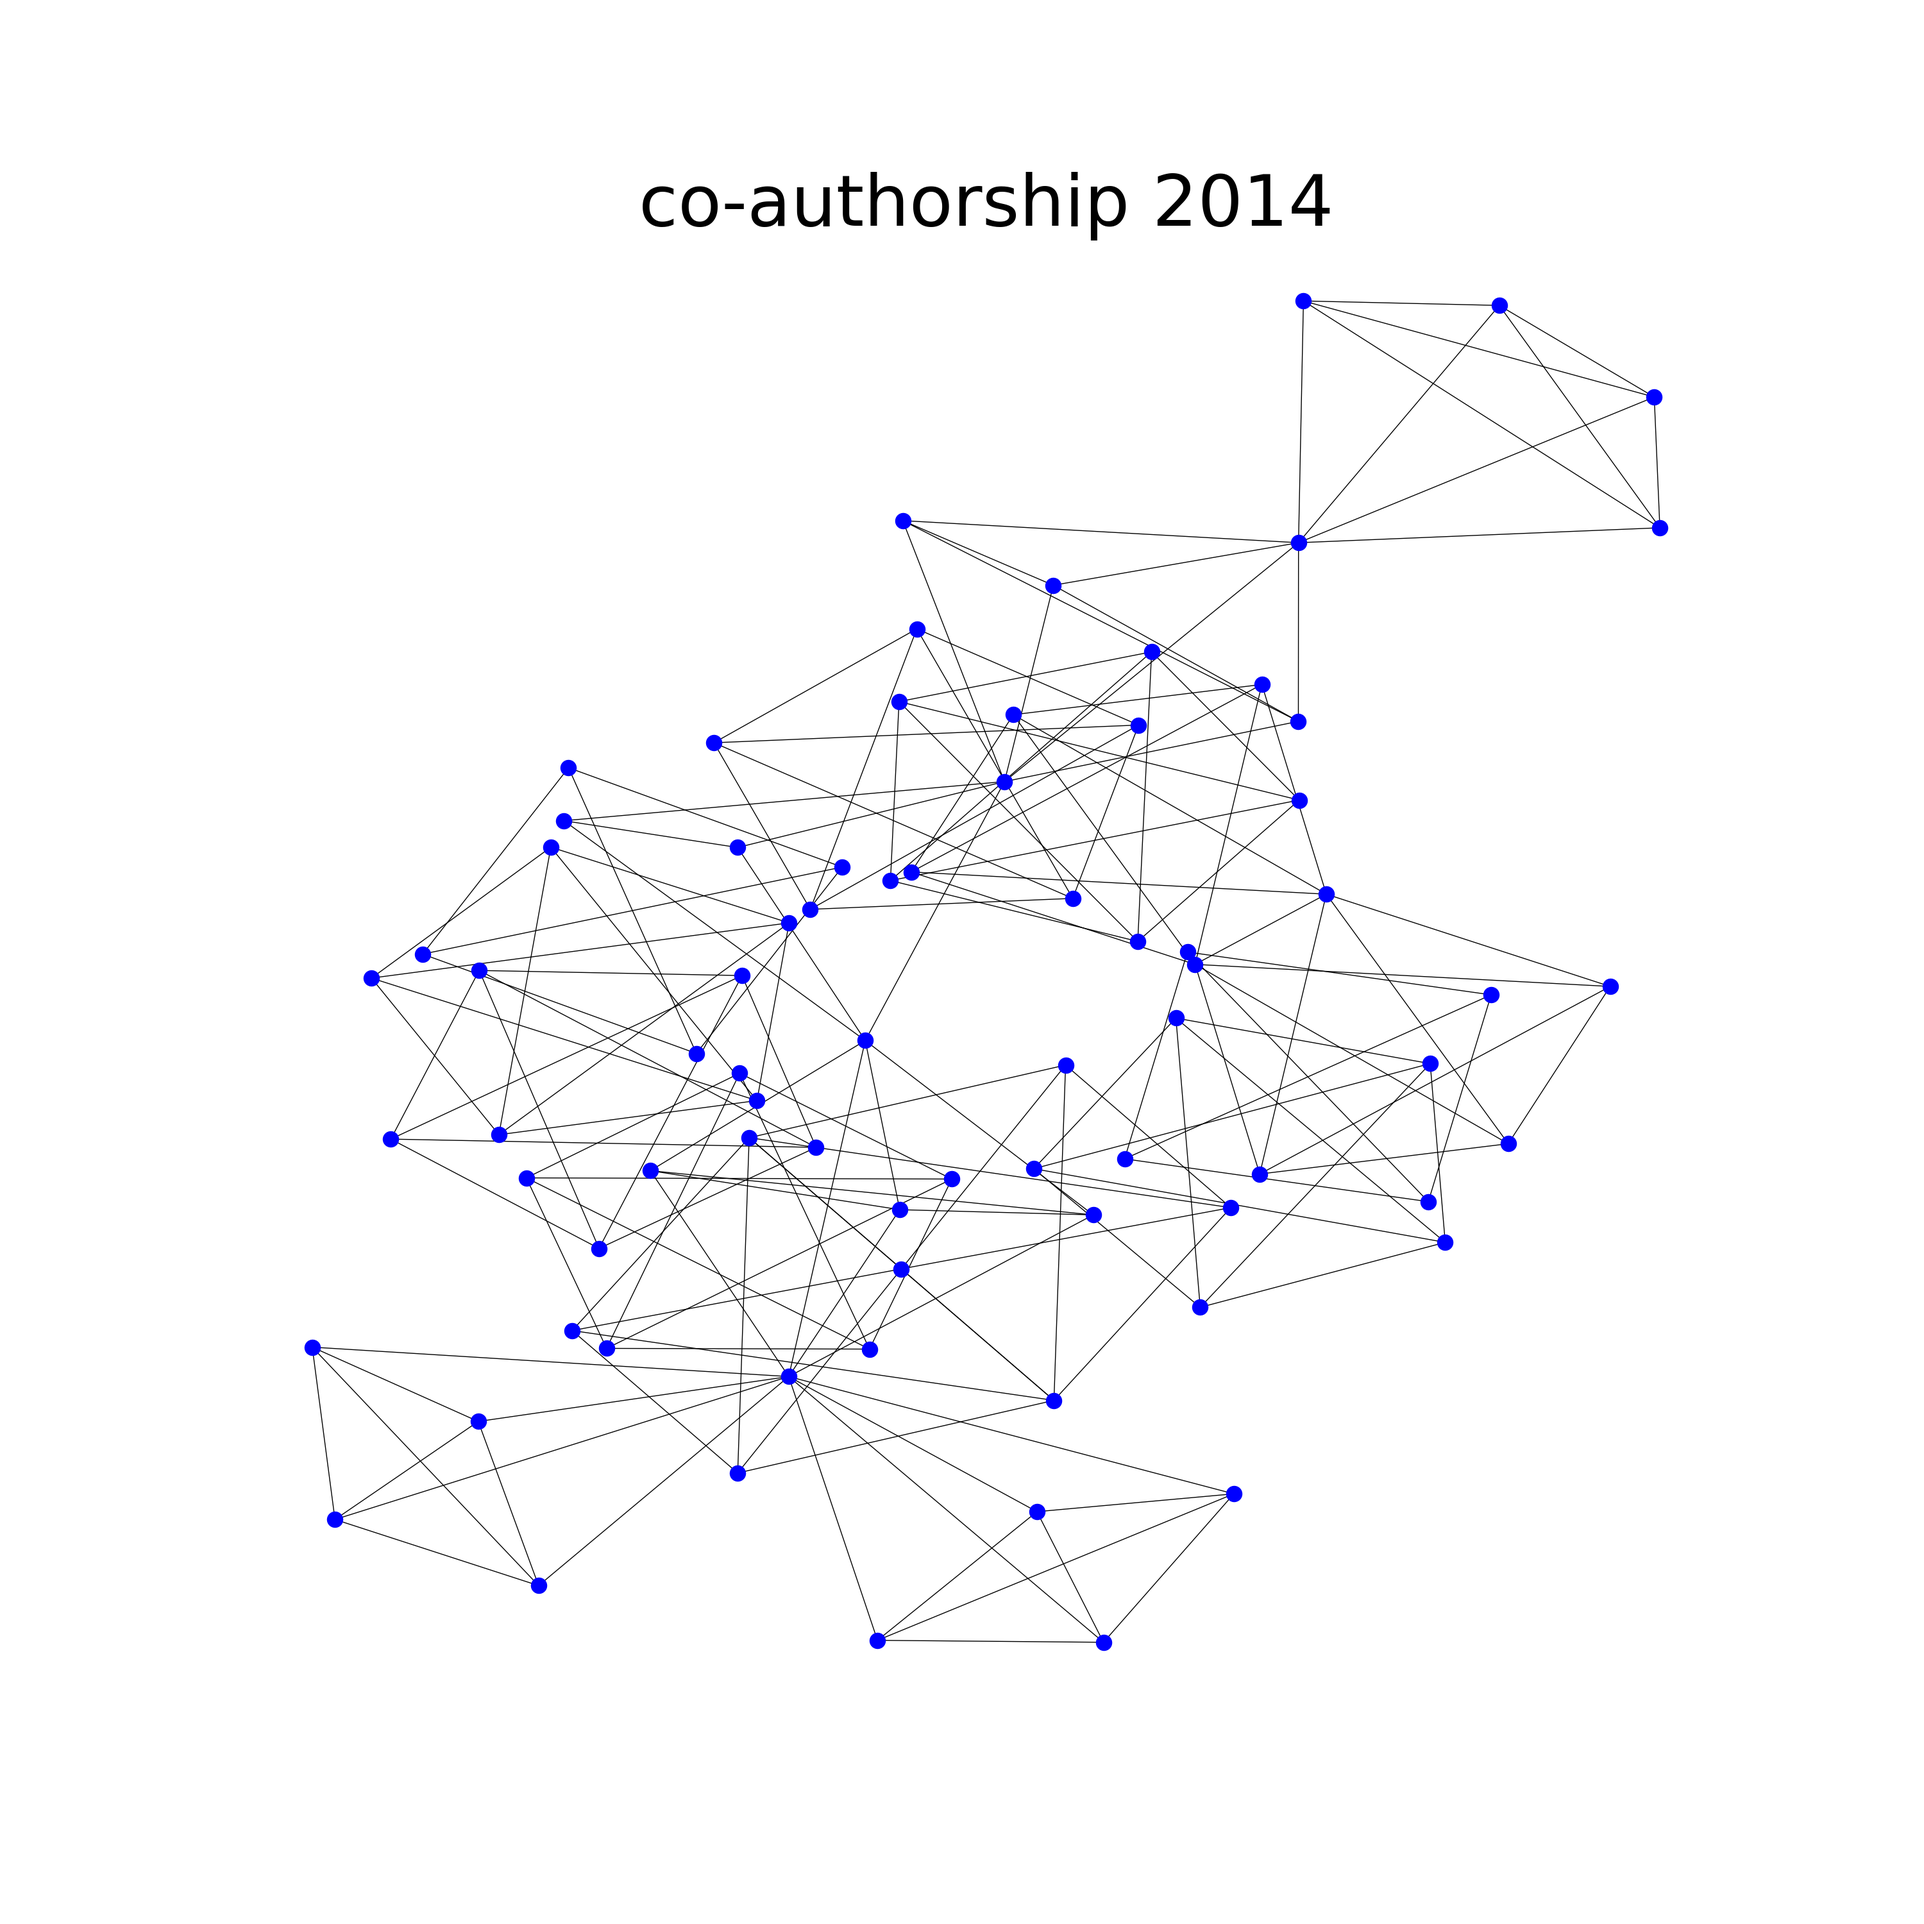
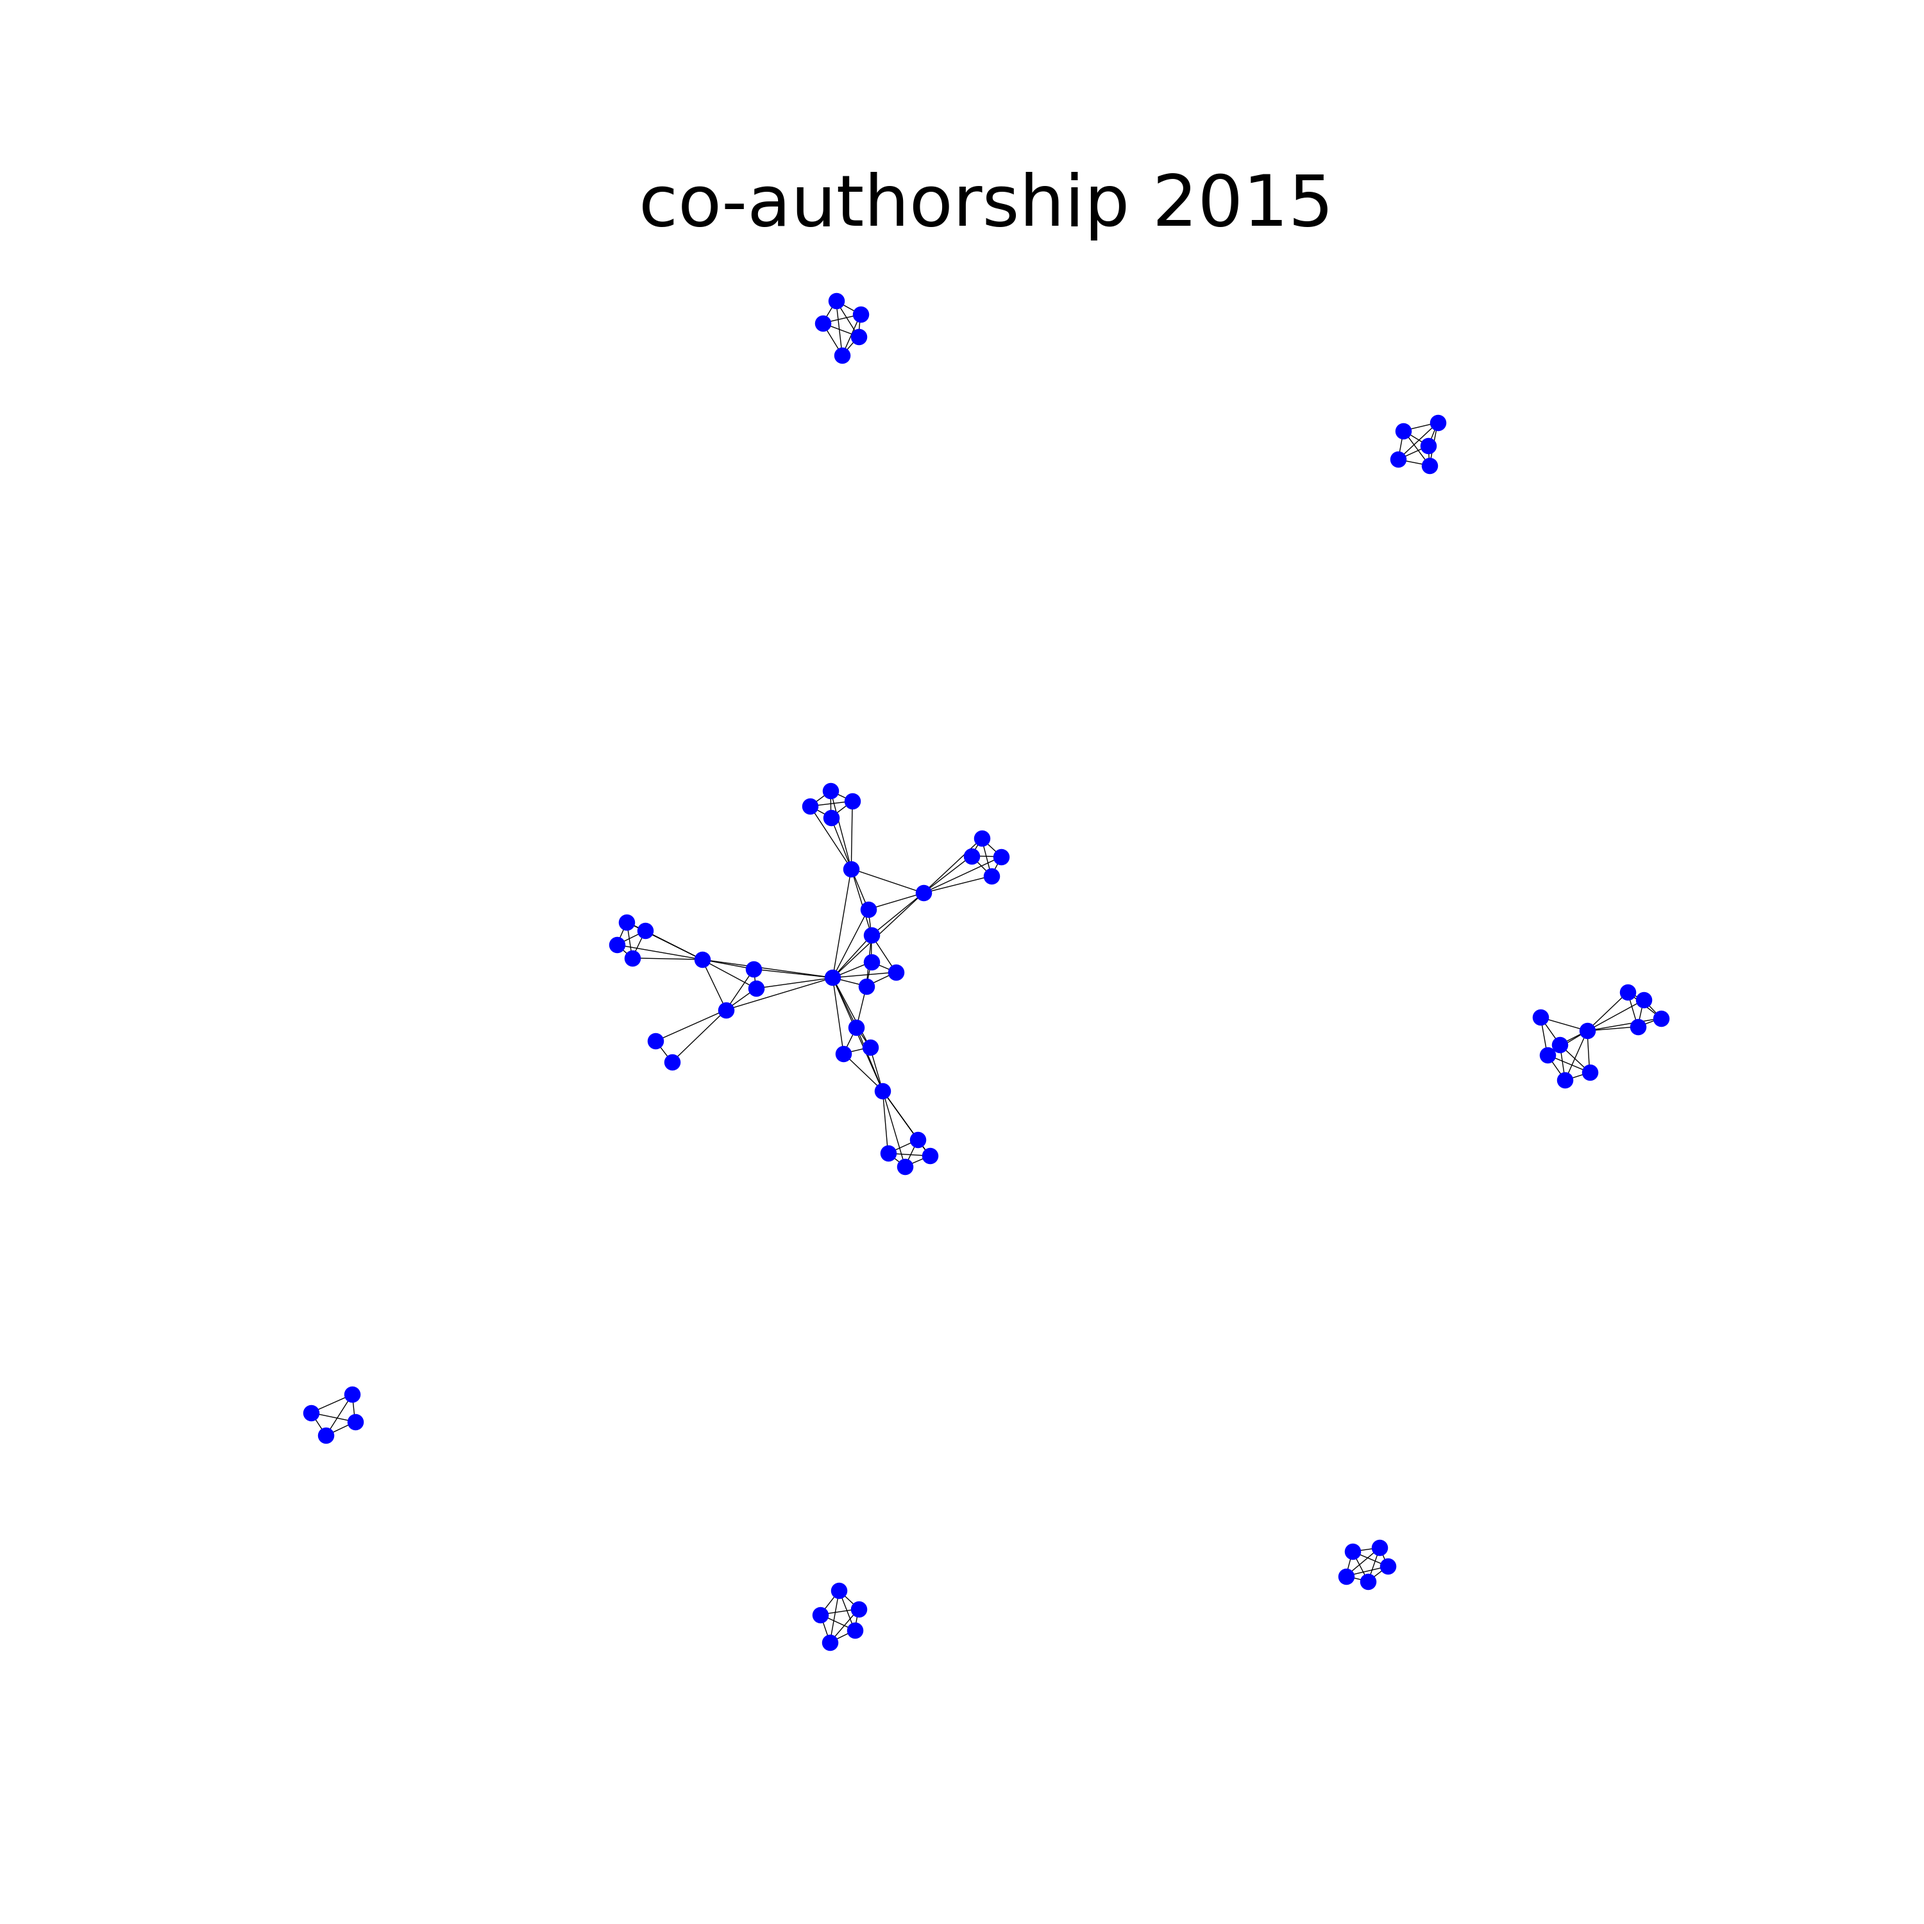
layout chiose added

diff --git a/website/catalog/templates/catalog/graphviz.html b/website/catalog/templates/catalog/graphviz.html
@@ -5,4 +5,14 @@
 
     {% load static %}
           <img src="{% static 'Graphs/Graph.png' %}" alt="My image" style="width:555px;height:540px;"/>
+    <form action="PageObjects" method="get">
+       <select name="layout">
+           <option selected="selected" disabled>Objects on page:</option>
+           <option value="random">Random</option>
+           <option value="circular">Circular</option>
+           <option value="kamada_kawai">Kamada Kawai</option>
+           <option value="spring">Spring</option>
+       </select>
+        <input type="submit" value="Select">
+    </form>
 {% endblock %}

diff --git a/website/catalog/templates/index.html b/website/catalog/templates/index.html
@@ -28,6 +28,13 @@
            <option value="co-authorship">co-authorship</option>
            <option value="citations">citations</option>
        </select>
+        <select name="layout">
+           <option selected="selected" disabled>Objects on page:</option>
+           <option value="random">Random</option>
+           <option value="circular">Circular</option>
+           <option value="kamada_kawai">Kamada Kawai</option>
+           <option value="spring">Spring</option>
+       </select>
         <input type="submit" value="Select">
     </form>
 

diff --git a/website/catalog/functions.py b/website/catalog/functions.py
@@ -41,18 +41,25 @@ def getGraph(year, type):
     if type == 'co-authorship':
         df = create_df_authors_for_year(year)
         G = create_graph_from_pandas_df(df)
-        if drawG(G, year, type) != 0:
+        if drawG(G, year, type, 'random') != 0:
             print('something went wrong!')
     elif type == 'citations':
         ### citations' funcions go here
         pass
     return G
 
-def drawG(G, year, type):
+def drawG(G, year, type, layout):
     nx.draw(G)
     plt.figure(figsize=(30, 30))
     plt.axis('off')
-    layout = nx.kamada_kawai_layout(G)
+    if layout == 'random':
+        layout = nx.random_layout(G)
+    if layout == 'circular':
+        layout = nx.circular_layout(G)
+    if layout == 'kamada_kawai':
+        layout = nx.kamada_kawai_layout(G)
+    if layout == 'spring':
+        layout = nx.spring_layout(G)
     nx.draw_networkx_edges(G, pos=layout)
     nx.draw_networkx_nodes(G, pos=layout, node_color='blue')
     plt.title(type + ' ' + str(year), fontsize=80)

diff --git a/website/catalog/views.py b/website/catalog/views.py
@@ -2,7 +2,9 @@ from django.shortcuts import render
 from .functions import getGraph, drawG
 from django.views import generic
 
-
+Y = 2015
+GT = 'co-authorship'
+LO = 'random'
 # Create your views here.
 def index(request):
     return render(
@@ -15,9 +17,20 @@ def index(request):
 
 def GraphV(request):
     if request.method == 'GET':
-        y = request.GET['year']
-        a = request.GET['graph']
-    drawG(getGraph(y, a), y, a)
+
+        if 'year' in request.GET.keys():
+            global Y
+            Y = request.GET['year']
+        if 'graph' in request.GET.keys():
+            global GT
+            GT = request.GET['graph']
+        if 'layout' in request.GET.keys():
+            global LO
+            LO = request.GET['layout']
+        year = Y
+        Gtype = GT
+        layout = LO
+    drawG(getGraph(year, Gtype), year, Gtype, layout)
 
 
     return render(
